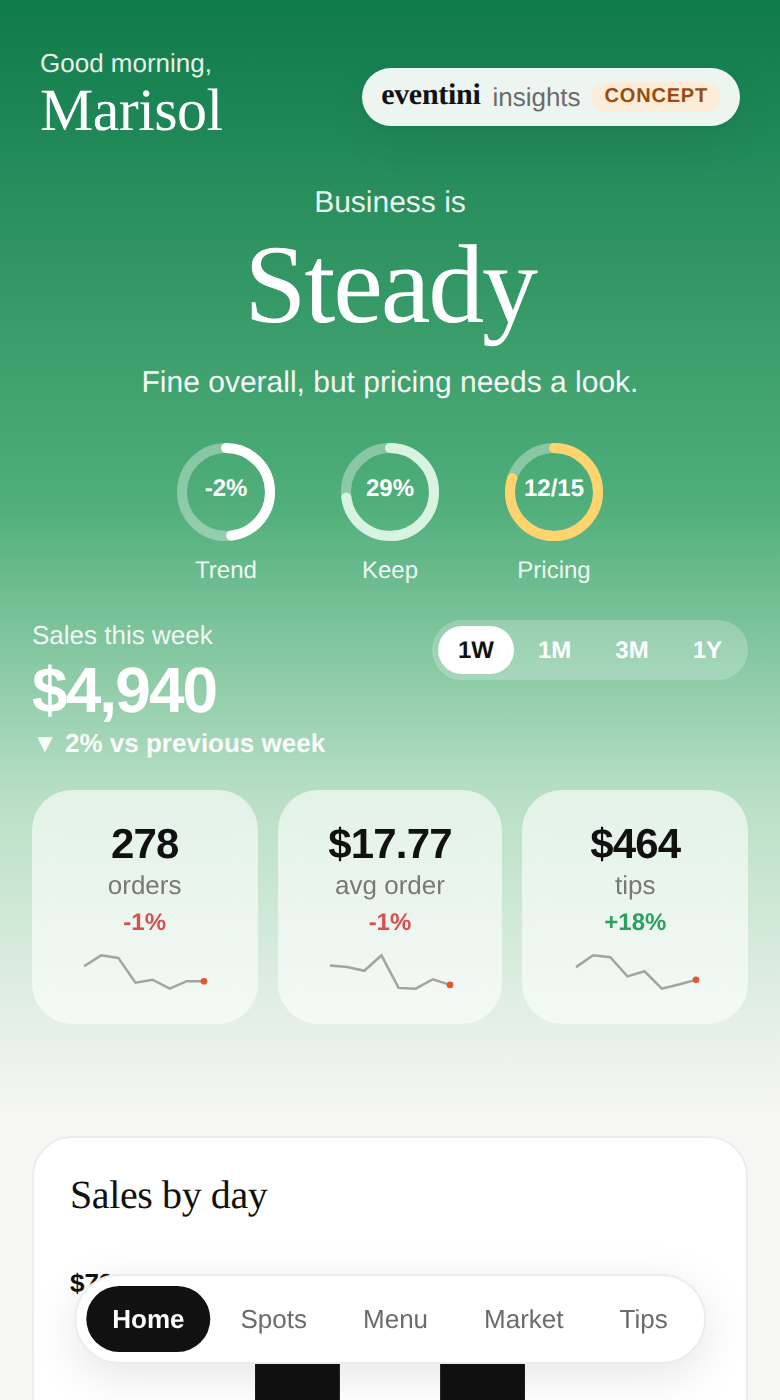
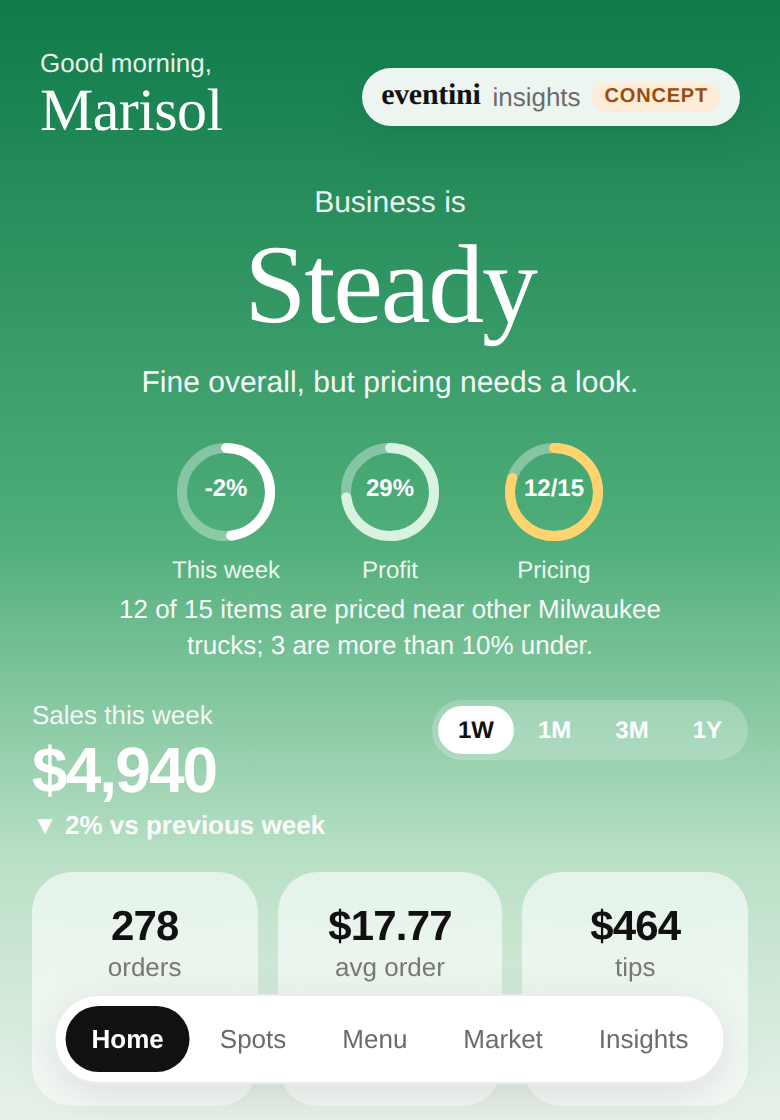
Plain words on the rating rings: This week, Profit, Pricing
Profit is what Keep was (sales less food, staff and fees, before fixed
bills), and the sentence says so. The weakest check's sentence shows by
default under the rings; tapping a ring swaps it.

Claude-Session: https://claude.ai/code/session_011kULvXi1EhLGoQfkcWDNEp

diff --git a/food-truck-app/src/lib/health.ts b/food-truck-app/src/lib/health.ts
@@ -16,10 +16,10 @@ export function health(): Health {
   const ch = pctChange(now.gross, prev.gross)
   const tv = ch === null ? '–' : pct(ch)
   const tf = ch === null ? 0.5 : Math.min(1, Math.max(0, 0.5 + ch))
-  if (ch === null) checks.push({ label: 'Trend', detail: 'Not enough history yet.', score: 0, value: tv, fill: tf })
-  else if (ch >= 0.05) checks.push({ label: 'Trend', detail: `Up ${pct(ch, false)} on last week.`, score: 1, value: tv, fill: tf })
-  else if (ch <= -0.1) checks.push({ label: 'Trend', detail: `Down ${pct(Math.abs(ch), false)} on last week.`, score: -1, value: tv, fill: tf })
-  else checks.push({ label: 'Trend', detail: `About level with last week (${pct(ch)}).`, score: 0, value: tv, fill: tf })
+  if (ch === null) checks.push({ label: 'This week', detail: 'Not enough history yet.', score: 0, value: tv, fill: tf })
+  else if (ch >= 0.05) checks.push({ label: 'This week', detail: `Sales up ${pct(ch, false)} on last week.`, score: 1, value: tv, fill: tf })
+  else if (ch <= -0.1) checks.push({ label: 'This week', detail: `Sales down ${pct(Math.abs(ch), false)} on last week.`, score: -1, value: tv, fill: tf })
+  else checks.push({ label: 'This week', detail: `Sales about level with last week (${pct(ch)}).`, score: 0, value: tv, fill: tf })
 
   // 2. What you keep: sales minus food, staff and fees over the last 4 weeks.
   const m = { from: addWeeks(w.to, -4), to: w.to }
@@ -28,22 +28,22 @@ export function health(): Health {
   const kept = ds.reduce((a, d) => a + (d.contribution ?? 0), 0)
   const keep = gross ? kept / gross : 0
   const kv = pct(keep, false), kf = Math.min(1, keep / 0.4)
-  if (!gross) checks.push({ label: 'Keep', detail: 'No sales in the last 4 weeks.', score: -1, value: '–', fill: 0 })
-  else if (keep >= 0.25) checks.push({ label: 'Keep', detail: `${pct(keep, false)} of sales left after food, staff and fees.`, score: 1, value: kv, fill: kf })
-  else if (keep >= 0.12) checks.push({ label: 'Keep', detail: `${pct(keep, false)} of sales left after food, staff and fees. Healthy is 25% or more.`, score: 0, value: kv, fill: kf })
-  else checks.push({ label: 'Keep', detail: `Only ${pct(keep, false)} of sales left after food, staff and fees.`, score: -1, value: kv, fill: kf })
+  if (!gross) checks.push({ label: 'Profit', detail: 'No sales in the last 4 weeks.', score: -1, value: '–', fill: 0 })
+  else if (keep >= 0.25) checks.push({ label: 'Profit', detail: `${pct(keep, false)} of sales is profit after food, staff and fees, before fixed bills like the loan and insurance.`, score: 1, value: kv, fill: kf })
+  else if (keep >= 0.12) checks.push({ label: 'Profit', detail: `${pct(keep, false)} of sales is profit after food, staff and fees, before fixed bills. Healthy is 25% or more.`, score: 0, value: kv, fill: kf })
+  else checks.push({ label: 'Profit', detail: `Only ${pct(keep, false)} of sales is profit after food, staff and fees, before fixed bills.`, score: -1, value: kv, fill: kf })
 
   // 3. Pricing against the market.
   const priced = data.benchmarks.filter((b) => b.hero_price !== null && b.n_trucks >= 3)
   const under = priced.filter((b) => (b.hero_vs_median ?? 0) <= -0.1).length
   const pv = `${priced.length - under}/${priced.length}`, pf = priced.length ? (priced.length - under) / priced.length : 0
-  if (under === 0) checks.push({ label: 'Pricing', detail: 'No item is more than 10% under the market middle.', score: 1, value: pv, fill: pf })
-  else if (under <= 2) checks.push({ label: 'Pricing', detail: `${under} item${under > 1 ? 's' : ''} more than 10% under the market middle.`, score: 0, value: pv, fill: pf })
-  else checks.push({ label: 'Pricing', detail: `${under} items priced more than 10% under the market middle.`, score: -1, value: pv, fill: pf })
+  if (under === 0) checks.push({ label: 'Pricing', detail: 'Every item is priced at or near what other Milwaukee trucks charge.', score: 1, value: pv, fill: pf })
+  else if (under <= 2) checks.push({ label: 'Pricing', detail: `${priced.length - under} of ${priced.length} items are priced near other Milwaukee trucks; ${under} ${under > 1 ? 'are' : 'is'} more than 10% under.`, score: 0, value: pv, fill: pf })
+  else checks.push({ label: 'Pricing', detail: `${priced.length - under} of ${priced.length} items are priced near other Milwaukee trucks; ${under} are more than 10% under.`, score: -1, value: pv, fill: pf })
 
   const total = checks.reduce((a, c) => a + c.score, 0)
   const weak = checks.filter((c) => c.score < 0)
-  if (total >= 2) return { rating: 'Good', tone: 'good', summary: 'Sales, margin and pricing all look healthy.', checks }
+  if (total >= 2) return { rating: 'Good', tone: 'good', summary: 'Sales, profit and pricing all look healthy.', checks }
   if (total <= -1 || weak.length >= 2)
     return { rating: 'Needs attention', tone: 'warn', summary: `${weak.map((c) => c.label.toLowerCase()).join(' and ')} need${weak.length === 1 ? 's' : ''} a look.`, checks }
   return { rating: 'Steady', tone: 'info', summary: weak.length ? `Fine overall, but ${weak[0].label.toLowerCase()} needs a look.` : 'Nothing urgent. One or two things could be better.', checks }

diff --git a/food-truck-app/src/screens/Home.tsx b/food-truck-app/src/screens/Home.tsx
@@ -20,7 +20,8 @@ export default function Home({ range, setRange }: { range: RangeKey; setRange: (
   const tips = weeklyInsights()
   const stock = stockAlerts()
   const h = health()
-  const [why, setWhy] = useState<string | null>(null)
+  const weakest = [...h.checks].sort((a, b) => a.score - b.score)[0]?.label ?? null
+  const [why, setWhy] = useState<string | null>(weakest)
   const navigate = useNavigate()
   const metric: Metric = 'sales'
   const pick = (m: Metric) => navigate(`/history/${m}`)
@@ -45,7 +46,7 @@ export default function Home({ range, setRange }: { range: RangeKey; setRange: (
 
         <div className="rings">
           {h.checks.map((c) => (
-            <button key={c.label} className="ring-btn" onClick={() => setWhy(why === c.label ? null : c.label)} aria-pressed={why === c.label}>
+            <button key={c.label} className="ring-btn" onClick={() => setWhy(c.label)} aria-pressed={why === c.label}>
               <Ring fill={c.fill} tone={toneOf(c.score)} text={c.value} label={c.label} />
             </button>
           ))}
